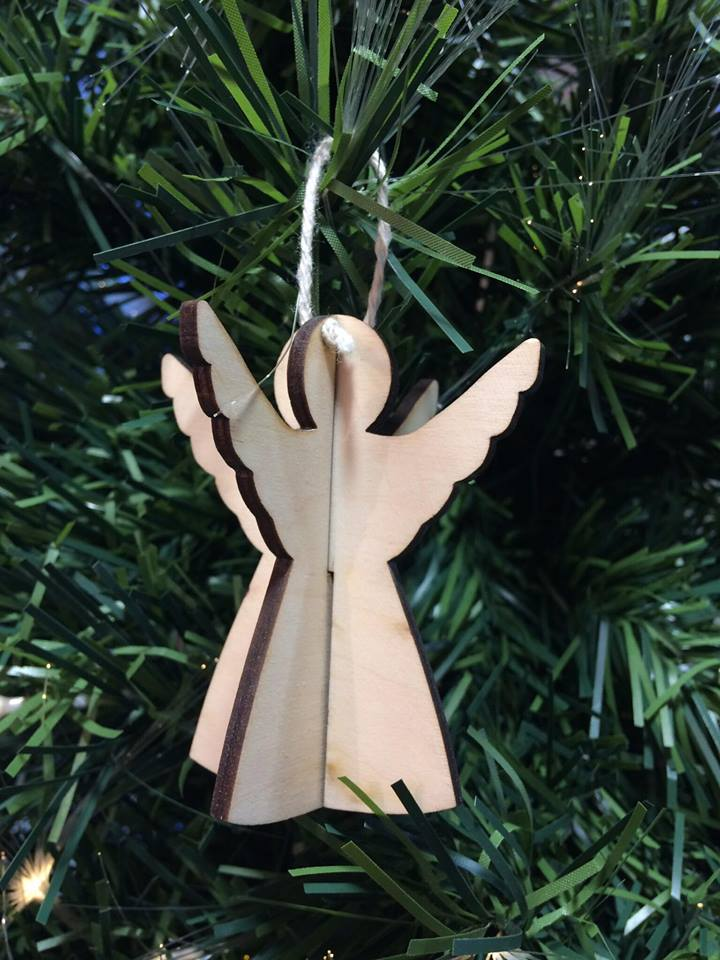
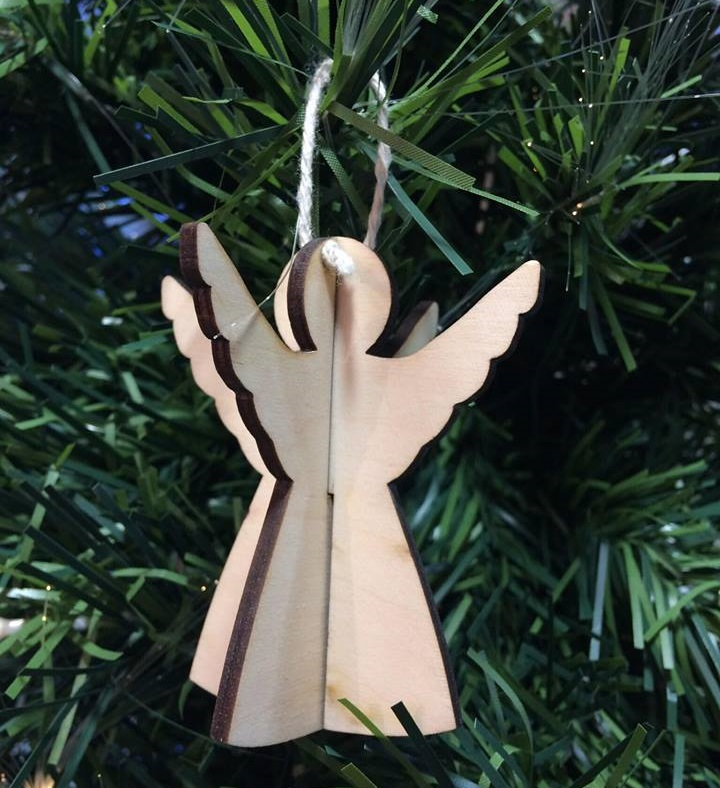
Added prices and descriptions to products.
Also fixed streched images.

diff --git a/products/hanging/snowflake/index.html b/products/hanging/snowflake/index.html
@@ -84,9 +84,15 @@
 				<div id="title">HANGING SNOWFLAKE</div>
 				<div id="infopane">
 					<div id="price">
-						&pound;0.00
+						Single<span style="font-family: none;">:</span> &pound;2.00<br>
+						Set of four<span style="font-family: none;">:</span> &pound;6.99<br>
 					</div>
-					PRODUCT DESCRIPTION GOES HERE
+					A hanging snowflake decoration for a Christmas tree. Buy individually, or buy a selection of 4 hanging decorations for &pound;6.99.<br>
+					<br>
+					Purchase information:<br>
+					We currently can't accept payment through the website, but if you want to purchase, please contact us by email:<br>
+					<a style="font-family: Helvetica, serif;" href="mailto:koristella1@gmail.com">koristella1@gmail.com</a><br>
+					Alternatively, send us a message on Facebook or Instagram.
 				</div>
 				<div id="photopane">
 					<div class="hide-mobile">CLICK AN IMAGE TO ENLARGE</div>

diff --git a/products/hanging/angel/index.html b/products/hanging/angel/index.html
@@ -84,9 +84,15 @@
 				<div id="title">HANGING ANGEL</div>
 				<div id="infopane">
 					<div id="price">
-						&pound;0.00
+						Single<span style="font-family: none;">:</span> &pound;2.00<br>
+						Set of four<span style="font-family: none;">:</span> &pound;6.99<br>
 					</div>
-					PRODUCT DESCRIPTION GOES HERE
+					A hanging angel decoration for a Christmas tree. Buy individually, or buy a selection of 4 hanging decorations for &pound;6.99.<br>
+					<br>
+					Purchase information:<br>
+					We currently can't accept payment through the website, but if you want to purchase, please contact us by email:<br>
+					<a style="font-family: Helvetica, serif;" href="mailto:koristella1@gmail.com">koristella1@gmail.com</a><br>
+					Alternatively, send us a message on Facebook or Instagram.
 				</div>
 				<div id="photopane">
 					<div class="hide-mobile">CLICK AN IMAGE TO ENLARGE</div>

diff --git a/products/hanging/bell/index.html b/products/hanging/bell/index.html
@@ -84,9 +84,15 @@
 				<div id="title">HANGING BELL</div>
 				<div id="infopane">
 					<div id="price">
-						&pound;0.00
+						Single<span style="font-family: none;">:</span> &pound;2.00<br>
+						Set of four<span style="font-family: none;">:</span> &pound;6.99<br>
 					</div>
-					PRODUCT DESCRIPTION GOES HERE
+					A hanging bell decoration for a Christmas tree. Buy individually, or buy a selection of 4 hanging decorations for &pound;6.99.<br>
+					<br>
+					Purchase information:<br>
+					We currently can't accept payment through the website, but if you want to purchase, please contact us by email:<br>
+					<a style="font-family: Helvetica, serif;" href="mailto:koristella1@gmail.com">koristella1@gmail.com</a><br>
+					Alternatively, send us a message on Facebook or Instagram.
 				</div>
 				<div id="photopane">
 					<div class="hide-mobile">CLICK AN IMAGE TO ENLARGE</div>

diff --git a/products/hanging/star/index.html b/products/hanging/star/index.html
@@ -84,9 +84,15 @@
 				<div id="title">HANGING STAR</div>
 				<div id="infopane">
 					<div id="price">
-						&pound;0.00
+						Single<span style="font-family: none;">:</span> &pound;2.00<br>
+						Set of four<span style="font-family: none;">:</span> &pound;6.99<br>
 					</div>
-					PRODUCT DESCRIPTION GOES HERE
+					A hanging star decoration for a Christmas tree. Buy individually, or buy a selection of 4 hanging decorations for &pound;6.99.<br>
+					<br>
+					Purchase information:<br>
+					We currently can't accept payment through the website, but if you want to purchase, please contact us by email:<br>
+					<a style="font-family: Helvetica, serif;" href="mailto:koristella1@gmail.com">koristella1@gmail.com</a><br>
+					Alternatively, send us a message on Facebook or Instagram.
 				</div>
 				<div id="photopane">
 					<div class="hide-mobile">CLICK AN IMAGE TO ENLARGE</div>

diff --git a/products/coasters/snowflake/index.html b/products/coasters/snowflake/index.html
@@ -84,9 +84,14 @@
 				<div id="title">SET OF FOUR SNOWFLAKE COASTERS</div>
 				<div id="infopane">
 					<div id="price">
-						&pound;6.99 for four.
+						Set of four<span style="font-family: none;">:</span> &pound;6.99<br>
 					</div>
-					PRODUCT DESCRIPTION GOES HERE
+					A set of four wooden snowflake coasters.<br>
+					<br>
+					Purchase information:<br>
+					We currently can't accept payment through the website, but if you want to purchase, please contact us by email:<br>
+					<a style="font-family: Helvetica, serif;" href="mailto:koristella1@gmail.com">koristella1@gmail.com</a><br>
+					Alternatively, send us a message on Facebook or Instagram.
 				</div>
 				<div id="photopane">
 					<div class="hide-mobile">CLICK AN IMAGE TO ENLARGE</div>

diff --git a/products/coasters/stag/index.html b/products/coasters/stag/index.html
@@ -84,9 +84,14 @@
 				<div id="title">SET OF FOUR STAG COASTERS</div>
 				<div id="infopane">
 					<div id="price">
-						&pound;6.99
+						Set of four<span style="font-family: none;">:</span> &pound;6.99<br>
 					</div>
-					PRODUCT DESCRIPTION GOES HERE
+					A set of four wooden stag coasters.<br>
+					<br>
+					Purchase information:<br>
+					We currently can't accept payment through the website, but if you want to purchase, please contact us by email:<br>
+					<a style="font-family: Helvetica, serif;" href="mailto:koristella1@gmail.com">koristella1@gmail.com</a><br>
+					Alternatively, send us a message on Facebook or Instagram.
 				</div>
 				<div id="photopane">
 					<div class="hide-mobile">CLICK AN IMAGE TO ENLARGE</div>

diff --git a/products/decor/reindeer/index.html b/products/decor/reindeer/index.html
@@ -84,9 +84,14 @@
 				<div id="title">REINDEER DECORATION</div>
 				<div id="infopane">
 					<div id="price">
-						&pound;0.00
+						&pound; TBD
 					</div>
-					PRODUCT DESCRIPTION GOES HERE
+					A standing reindeer decoration. Also a brilliant christmas present.<br>
+					<br>
+					Purchase information:<br>
+					We currently can't accept payment through the website, but if you want to purchase, please contact us by email:<br>
+					<a style="font-family: Helvetica, serif;" href="mailto:koristella1@gmail.com">koristella1@gmail.com</a><br>
+					Alternatively, send us a message on Facebook or Instagram.
 				</div>
 				<div id="photopane">
 					<div class="hide-mobile">CLICK AN IMAGE TO ENLARGE</div>

diff --git a/index.html b/index.html
@@ -70,7 +70,7 @@
 			<div id="content">
 				<div id="title"><b>HOME</b></div><br>
 				Welcome to our website.
-				Koristella is company created by a team of sixth formers, working in association with the Young Enterprise scheme.<br>
+				Koristella is a company created by a team of sixth formers, working in association with the Young Enterprise scheme.<br>
 				<br>Here at Koristella, we provide quality wooden products for your home. Our range of Scandinavian-style products are all specially designed by us in a variety of styles for every season and occasion.<br>
 				<br><h2>FEATURED PRODUCTS</h2>
 				<div class="product">

diff --git a/about/index.html b/about/index.html
@@ -70,7 +70,7 @@
 			<div id="content">
 				<div id="title"><b>ABOUT US</b></div>
 				Welcome to the Koristella website.
-				Koristella is company created by a team of sixth formers, working in association with the Young Enterprise scheme.<br>
+				Koristella is a company created by a team of sixth formers, working in association with the Young Enterprise scheme.<br>
 				<br>
 				<img src="team.jpg" alt="The team" id="groupphoto">
 				<br>

diff --git a/style.css b/style.css
@@ -1,4 +1,4 @@
-@import url('https://fonts.googleapis.com/css?family=Cormorant+Garamond&text=ABCDEFGHIJKLMNOPQRSTUVWXYZabcdefghijklmnopqrstuvwxyz0123456789%C2%A3');
+@import url('https://fonts.googleapis.com/css?family=Cormorant+Garamond&text=ABCDEFGHIJKLMNOPQRSTUVWXYZabcdefghijklmnopqrstuvwxyz0123456789%C2%A3\'%2E');
 
 html,body {
 	font-family:                 'Cormorant Garamond', sans-serif;
